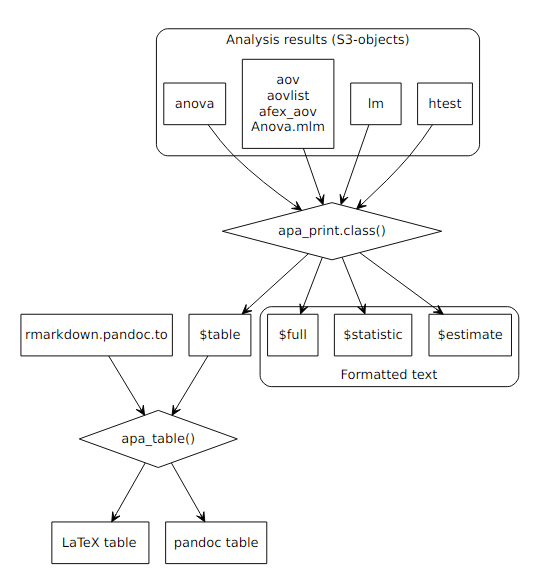
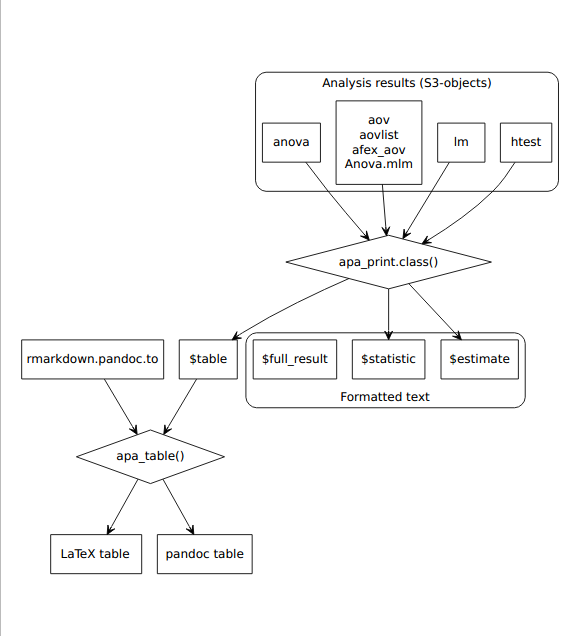
Updates list of apa_print methods and workflow diagram.

Changed region(s): [[0.0312, 0.0309, 0.9688, 0.6792], [0.0625, 0.6484, 0.5, 0.988], [0.4062, 0.3705, 0.4688, 0.4014]]

diff --git a/docs/published-manuscripts.html b/docs/published-manuscripts.html
@@ -25,7 +25,7 @@
 <meta name="author" content="Frederik Aust &amp; Marius Barth">
 
 
-<meta name="date" content="2018-08-06">
+<meta name="date" content="2018-08-10">
 
   <meta name="viewport" content="width=device-width, initial-scale=1">
   <meta name="apple-mobile-web-app-capable" content="yes">
@@ -213,16 +213,9 @@ code > span.in { color: #60a0b0; font-weight: bold; font-style: italic; } /* Inf
 <p>If you have published a paper that was written with <code>papaja</code>, you can add the reference to the <a href="https://www.zotero.org/groups/2202906/papaja">public Zotero group</a> yourself or send it to me.</p>
 <hr />
 <p>Although <code>papaja</code> is not yet on CRAN and is still undergoing a lot of changes, there are peer-reviewed publications that use it. If you have published a paper that was written with <code>papaja</code>, you can add the reference to the <a href="https://www.zotero.org/groups/2202906/papaja">public Zotero group</a> yourself or send it to me.</p>
-<p>Stahl, C., Barth, M., &amp; Haider, H. (2015). Distorted estimates of implicit and explicit learning in applications of the process-dissociation procedure to the SRT task. <em>Consciousness and Cognition</em>, <em>37</em>, 27–43. <a href="https://doi.org/10.1016/j.concog.2015.08.003" class="uri">https://doi.org/10.1016/j.concog.2015.08.003</a></p>
 <p>Aust, F., &amp; Edwards, J. D. (2016). Incremental validity of Useful Field of View subtests for the prediction of instrumental activities of daily living. <em>Journal of Clinical and Experimental Neuropsychology</em>, <em>38</em>(5), 497–515. <a href="https://doi.org/10.1080/13803395.2015.1125453" class="uri">https://doi.org/10.1080/13803395.2015.1125453</a></p>
-<p>Stahl, C., &amp; Heycke, T. (2016). Evaluative Conditioning with Simultaneous and Sequential Pairings Under Incidental and Intentional Learning Conditions. <em>Social Cognition</em>, <em>34</em>(5), 382–412. <a href="https://doi.org/10.1521/soco.2016.34.5.382" class="uri">https://doi.org/10.1521/soco.2016.34.5.382</a></p>
-<p>Stahl, C., Haaf, J., &amp; Corneille, O. (2016). Subliminal Evaluative Conditioning? Above-Chance CS Identification May Be Necessary and Insufficient for Attitude Learning. <em>Journal of Experimental Psychology: General</em>, <em>145</em>, 1107–1131. <a href="https://doi.org/10.1037/xge0000191" class="uri">https://doi.org/10.1037/xge0000191</a></p>
-<p>Stahl, C., Henze, L., &amp; Aust, F. (2016). False memory for perceptually similar but conceptually distinct line drawings. <em>PsyArXiv</em>. <a href="https://doi.org/10.17605/osf.io/zr7m8" class="uri">https://doi.org/10.17605/osf.io/zr7m8</a> (R Markdown and data files: <a href="https://osf.io/jxm7z/" class="uri">https://osf.io/jxm7z/</a>)</p>
-<p>Haaf, J. M., &amp; Rouder, J. N. (2017). Developing constraint in bayesian mixed models. <em>Psychological Methods</em>, <em>22</em>(4), 779–798. <a href="https://doi.org/10.1037/met0000156" class="uri">https://doi.org/10.1037/met0000156</a> (R Markdown and data files: <a href="https://github.com/perceptionandcognitionlab/ctx-indiff" class="uri">https://github.com/perceptionandcognitionlab/ctx-indiff</a>)</p>
-<p>Heycke, T., Aust, F., &amp; Stahl, C. (2017). Subliminal influence on preferences? A test of evaluative conditioning for brief visual conditioned stimuli using auditory unconditioned stimuli. <em>Royal Society Open Science</em>, <em>4</em>(9), 160935. <a href="https://doi.org/10.1098/rsos.160935" class="uri">https://doi.org/10.1098/rsos.160935</a></p>
-<p>McHugh, C., McGann, M., Igou, E. R., &amp; Kinsella, E. L. (2017). Searching for Moral Dumbfounding: Identifying Measurable Indicators of Moral Dumbfounding. <em>Collabra: Psychology</em>, <em>3</em>(1). <a href="https://doi.org/10.1525/collabra.79" class="uri">https://doi.org/10.1525/collabra.79</a> (R Markdown and data files: <a href="https://osf.io/wm6vc/" class="uri">https://osf.io/wm6vc/</a>)</p>
-<p>Papenberg, M., Willing, S., &amp; Musch, J. (2017). Sequentially presented response options prevent the use of testwiseness cues in multiple-choice testing. <em>Psychological Test and Assessment Modeling</em>, <em>59</em>(2), 245–266. Retrieved from <a href="http://www.psychologie-aktuell.com/fileadmin/download/ptam/2-2017_20170627/06_Papenberg_.pdf" class="uri">http://www.psychologie-aktuell.com/fileadmin/download/ptam/2-2017_20170627/06_Papenberg_.pdf</a></p>
-<p>Sauer, S. (2017). Observation oriented modeling revised from a statistical point of view. <em>Behavior Research Methods</em>. <a href="https://doi.org/10.3758/s13428-017-0949-8" class="uri">https://doi.org/10.3758/s13428-017-0949-8</a> (R Markdown and data files: <a href="https://osf.io/6vhja/" class="uri">https://osf.io/6vhja/</a>)</p>
+<p>Aust, F., Haaf, J. M., &amp; Stahl, C. (2018). A memory-based judgment account of expectancy-liking dissociations in evaluative conditioning. <em>Journal of Experimental Psychology: Learning, Memory, and Cognition</em>. <a href="https://doi.org/10.1037/xlm0000600" class="uri">https://doi.org/10.1037/xlm0000600</a> (R Markdown and data files: <a href="https://osf.io/vnmby/" class="uri">https://osf.io/vnmby/</a>)</p>
+<p>Barth, M., Stahl, C., &amp; Haider, H. (2018). Assumptions of the process-dissociation procedure are violated in implicit sequence learning. <em>Journal of Experimental Psychology: Learning, Memory, and Cognition</em>. <a href="https://doi.org/10.1037/xlm0000614" class="uri">https://doi.org/10.1037/xlm0000614</a> (R Markdown and data files: <a href="https://github.com/methexp/pdl2" class="uri">https://github.com/methexp/pdl2</a>)</p>
 <p>Beaton, D., Sunderland, K. M., Levine, B., Mandzia, J., Masellis, M., Swartz, R. H., … Strother, S. C. (2018). Generalization of the minimum covariance determinant algorithm for categorical and mixed data types. <em>bioRxiv</em>. <a href="https://doi.org/10.1101/333005" class="uri">https://doi.org/10.1101/333005</a></p>
 <p>Bergmann, C., Tsuji, S., Piccinini, P. E., Lewis, M. L., Braginsky, M., Frank, M. C., &amp; Cristia, A. (2018). Promoting Replicability in Developmental Research Through Meta-analyses: Insights From Language Acquisition Research. <em>Child Development</em>. <a href="https://doi.org/10.1111/cdev.13079" class="uri">https://doi.org/10.1111/cdev.13079</a> (R Markdown and data files: <a href="https://osf.io/uhv3d/" class="uri">https://osf.io/uhv3d/</a>)</p>
 <p>Buchanan, E. M., &amp; Scofield, J. E. (2018). Methods to detect low quality data and its implication for psychological research. <em>Behavior Research Methods</em>. <a href="https://doi.org/10.3758/s13428-018-1035-6" class="uri">https://doi.org/10.3758/s13428-018-1035-6</a> (R Markdown and data files: <a href="https://osf.io/x6t8a/" class="uri">https://osf.io/x6t8a/</a>)</p>
@@ -235,18 +228,30 @@ code > span.in { color: #60a0b0; font-weight: bold; font-style: italic; } /* Inf
 <p>Buchanan, E., Valentine, K., &amp; Maxwell, N. (2018b). The LAB: Linguistic Annotated Bibliography. <em>PsyArXiv</em>. <a href="https://doi.org/10.17605/osf.io/h3bwx" class="uri">https://doi.org/10.17605/osf.io/h3bwx</a> (R Markdown and data files: <a href="https://osf.io/9bcws/" class="uri">https://osf.io/9bcws/</a>)</p>
 <p>Craddock, M., Klepousniotou, E., El-Deredy, W., Poliakoff, E., &amp; Lloyd, D. M. (2018). Transcranial alternating current stimulation at 10 Hz modulates response bias in the Somatic Signal Detection Task. <em>bioRxiv</em>. <a href="https://doi.org/10.1101/330134" class="uri">https://doi.org/10.1101/330134</a></p>
 <p>Derringer, J. (2018). A simple correction for non-independent tests. <em>PsyArXiv</em>. <a href="https://doi.org/10/gdrbxc" class="uri">https://doi.org/10/gdrbxc</a> (R Markdown and data files: <a href="https://osf.io/re5w2/" class="uri">https://osf.io/re5w2/</a>)</p>
+<p>Faulkenberry, T. J., Cruise, A., &amp; Shaki, S. (2018). Task instructions modulate unit–decade binding in two-digit number representation. <em>Psychological Research</em>. <a href="https://doi.org/10.1007/s00426-018-1057-9" class="uri">https://doi.org/10.1007/s00426-018-1057-9</a> (R Markdown and data files: <a href="https://github.com/tomfaulkenberry/twodigittaskmanip" class="uri">https://github.com/tomfaulkenberry/twodigittaskmanip</a>)</p>
+<p>Haaf, J. M., &amp; Rouder, J. N. (2017). Developing constraint in bayesian mixed models. <em>Psychological Methods</em>, <em>22</em>(4), 779–798. <a href="https://doi.org/10.1037/met0000156" class="uri">https://doi.org/10.1037/met0000156</a> (R Markdown and data files: <a href="https://github.com/perceptionandcognitionlab/ctx-indiff" class="uri">https://github.com/perceptionandcognitionlab/ctx-indiff</a>)</p>
 <p>Hardwicke, T., &amp; Ioannidis. (2018). Mapping the Universe of Registered Reports. <em>PsyArXiv</em>. <a href="https://doi.org/10.31222/osf.io/fzpcy" class="uri">https://doi.org/10.31222/osf.io/fzpcy</a> (R Markdown and data files: <a href="https://osf.io/7dpwb/" class="uri">https://osf.io/7dpwb/</a>)</p>
 <p>Hardwicke, T., Mathur, M., MacDonald, K., Nilsonne, G., Banks, G., Kidwell, M., … Frank, M. (2018). Data availability, reusability, and analytic reproducibility: Evaluating the impact of a mandatory open data policy at the journal Cognition. <em>PsyArXiv</em>. <a href="https://doi.org/10.17605/osf.io/39cfb" class="uri">https://doi.org/10.17605/osf.io/39cfb</a> (R Markdown and data files: <a href="https://osf.io/wn8fd/" class="uri">https://osf.io/wn8fd/</a>)</p>
 <p>Harms, C., &amp; Lakens, D. (2018). Making ’Null Effects’ Informative: Statistical Techniques and Inferential Frameworks. <em>PsyArXiv</em>. <a href="https://doi.org/10.17605/osf.io/48zca" class="uri">https://doi.org/10.17605/osf.io/48zca</a> (R Markdown and data files: <a href="https://osf.io/wptju/" class="uri">https://osf.io/wptju/</a>)</p>
 <p>Heino, M. T. J., Vuorre, M., &amp; Hankonen, N. (2018). Bayesian evaluation of behavior change interventions: A brief introduction and a practical example. <em>Health Psychology and Behavioral Medicine</em>, <em>6</em>(1), 49–78. <a href="https://doi.org/10.1080/21642850.2018.1428102" class="uri">https://doi.org/10.1080/21642850.2018.1428102</a> (R Markdown and data files: <a href="https://zenodo.org/record/1209814\#.wvy3h4jovgm" class="uri">https://zenodo.org/record/1209814\#.wvy3h4jovgm</a>)</p>
 <p>Heycke, T., &amp; Stahl, C. (2018). No Evaluative Conditioning Effects with Briefly Presented Stimuli. <em>PsyArXiv</em>. <a href="https://doi.org/10.17605/osf.io/ujq4g" class="uri">https://doi.org/10.17605/osf.io/ujq4g</a> (R Markdown and data files: <a href="https://osf.io/3dn7e/" class="uri">https://osf.io/3dn7e/</a>)</p>
+<p>Heycke, T., Aust, F., &amp; Stahl, C. (2017). Subliminal influence on preferences? A test of evaluative conditioning for brief visual conditioned stimuli using auditory unconditioned stimuli. <em>Royal Society Open Science</em>, <em>4</em>(9), 160935. <a href="https://doi.org/10.1098/rsos.160935" class="uri">https://doi.org/10.1098/rsos.160935</a></p>
 <p>Heycke, T., Gehrmann, S., Haaf, J. M., &amp; Stahl, C. (2018). Of two minds or one? A registered replication of Rydell et al. (2006). <em>Cognition and Emotion</em>, <em>0</em>(0), 1–20. <a href="https://doi.org/10.1080/02699931.2018.1429389" class="uri">https://doi.org/10.1080/02699931.2018.1429389</a> (R Markdown and data files: <a href="https://osf.io/c57sr/" class="uri">https://osf.io/c57sr/</a>)</p>
 <p>Heyman, T., &amp; Heyman, G. (2018). Can prediction-based distributional semantic models predict typicality? <em>PsyArXiv</em>. <a href="https://doi.org/10.17605/osf.io/59xtd" class="uri">https://doi.org/10.17605/osf.io/59xtd</a> (R Markdown and data files: <a href="https://osf.io/nkfjy/" class="uri">https://osf.io/nkfjy/</a>)</p>
 <p>Jordan, K., Buchanan, E., &amp; Padfield, W. (2018). Focus on the Target: The Role of Attentional Focus in Decisions about War. <em>PsyArXiv</em>. <a href="https://doi.org/10.17605/osf.io/9fgu8" class="uri">https://doi.org/10.17605/osf.io/9fgu8</a> (R Markdown and data files: <a href="https://osf.io/r8qp2/" class="uri">https://osf.io/r8qp2/</a>)</p>
-<p>Maxwell, N., &amp; Buchanan, E. (2018). Investigating the Interaction between Associative, Semantic, and Thematic Database Norms for Memory Judgments and Retrieval. <em>PsyArXiv</em>. <a href="https://doi.org/10.17605/osf.io/fcesn" class="uri">https://doi.org/10.17605/osf.io/fcesn</a> (R Markdown and data files: <a href="https://osf.io/y8h7v/" class="uri">https://osf.io/y8h7v/</a>)</p>
+<p>Lakens, D., Scheel, A. M., &amp; Isager, P. M. (2018). Equivalence Testing for Psychological Research: A Tutorial. <em>Advances in Methods and Practices in Psychological Science</em>, <em>1</em>(2), 259–269. <a href="https://doi.org/10.1177/2515245918770963" class="uri">https://doi.org/10.1177/2515245918770963</a> (R Markdown and data files: <a href="https://osf.io/qamc6/" class="uri">https://osf.io/qamc6/</a>)</p>
+<p>Maxwell, N., &amp; Buchanan, E. (2018a). Investigating the Interaction between Associative, Semantic, and Thematic Database Norms for Memory Judgments and Retrieval. <em>PsyArXiv</em>. <a href="https://doi.org/10.17605/osf.io/fcesn" class="uri">https://doi.org/10.17605/osf.io/fcesn</a> (R Markdown and data files: <a href="https://osf.io/y8h7v/" class="uri">https://osf.io/y8h7v/</a>)</p>
+<p>Maxwell, N., &amp; Buchanan, E. (2018b). Modeling Memory: Exploring the Relationship Between Word Overlap and Single Word Norms when Predicting Relatedness Judgments and Retrieval. <em>PsyArXiv</em>. <a href="https://doi.org/10.17605/osf.io/qekad" class="uri">https://doi.org/10.17605/osf.io/qekad</a> (R Markdown and data files: <a href="https://osf.io/j7qtc/" class="uri">https://osf.io/j7qtc/</a>)</p>
+<p>McHugh, C., McGann, M., Igou, E. R., &amp; Kinsella, E. L. (2017). Searching for Moral Dumbfounding: Identifying Measurable Indicators of Moral Dumbfounding. <em>Collabra: Psychology</em>, <em>3</em>(1). <a href="https://doi.org/10.1525/collabra.79" class="uri">https://doi.org/10.1525/collabra.79</a> (R Markdown and data files: <a href="https://osf.io/wm6vc/" class="uri">https://osf.io/wm6vc/</a>)</p>
+<p>Papenberg, M., Willing, S., &amp; Musch, J. (2017). Sequentially presented response options prevent the use of testwiseness cues in multiple-choice testing. <em>Psychological Test and Assessment Modeling</em>, <em>59</em>(2), 245–266. Retrieved from <a href="http://www.psychologie-aktuell.com/fileadmin/download/ptam/2-2017_20170627/06_Papenberg_.pdf" class="uri">http://www.psychologie-aktuell.com/fileadmin/download/ptam/2-2017_20170627/06_Papenberg_.pdf</a></p>
 <p>Pavlacic, J., Buchanan, E., Maxwell, N., Hopke, T., &amp; Schulenberg, S. (2018). A Meta-Analysis of Expressive Writing on Positive Psychology Variables and Traumatic Stress. <em>PsyArXiv</em>. <a href="https://doi.org/10.17605/osf.io/u98cw" class="uri">https://doi.org/10.17605/osf.io/u98cw</a> (R Markdown and data files: <a href="https://osf.io/4mjqt/" class="uri">https://osf.io/4mjqt/</a>)</p>
 <p>Pollet, T. V., &amp; Saxton, T. (2018). How diverse are the samples used in the journals “Evolution &amp; Human Behavior” and “Evolutionary Psychology”? <em>PsyArXiv</em>. <a href="https://doi.org/10.17605/osf.io/7h24p" class="uri">https://doi.org/10.17605/osf.io/7h24p</a></p>
 <p>Rouder, J. N., Haaf, J. M., &amp; Aust, F. (2018). From theories to models to predictions: A Bayesian model comparison approach. <em>Communication Monographs</em>, <em>85</em>(1), 41–56. <a href="https://doi.org/10.1080/03637751.2017.1394581" class="uri">https://doi.org/10.1080/03637751.2017.1394581</a></p>
+<p>Sauer, S. (2017). Observation oriented modeling revised from a statistical point of view. <em>Behavior Research Methods</em>. <a href="https://doi.org/10.3758/s13428-017-0949-8" class="uri">https://doi.org/10.3758/s13428-017-0949-8</a> (R Markdown and data files: <a href="https://osf.io/6vhja/" class="uri">https://osf.io/6vhja/</a>)</p>
+<p>Stahl, C., &amp; Heycke, T. (2016). Evaluative Conditioning with Simultaneous and Sequential Pairings Under Incidental and Intentional Learning Conditions. <em>Social Cognition</em>, <em>34</em>(5), 382–412. <a href="https://doi.org/10.1521/soco.2016.34.5.382" class="uri">https://doi.org/10.1521/soco.2016.34.5.382</a></p>
+<p>Stahl, C., Barth, M., &amp; Haider, H. (2015). Distorted estimates of implicit and explicit learning in applications of the process-dissociation procedure to the SRT task. <em>Consciousness and Cognition</em>, <em>37</em>, 27–43. <a href="https://doi.org/10.1016/j.concog.2015.08.003" class="uri">https://doi.org/10.1016/j.concog.2015.08.003</a></p>
+<p>Stahl, C., Haaf, J., &amp; Corneille, O. (2016). Subliminal Evaluative Conditioning? Above-Chance CS Identification May Be Necessary and Insufficient for Attitude Learning. <em>Journal of Experimental Psychology: General</em>, <em>145</em>, 1107–1131. <a href="https://doi.org/10.1037/xge0000191" class="uri">https://doi.org/10.1037/xge0000191</a></p>
+<p>Stahl, C., Henze, L., &amp; Aust, F. (2016). False memory for perceptually similar but conceptually distinct line drawings. <em>PsyArXiv</em>. <a href="https://doi.org/10.17605/osf.io/zr7m8" class="uri">https://doi.org/10.17605/osf.io/zr7m8</a> (R Markdown and data files: <a href="https://osf.io/jxm7z/" class="uri">https://osf.io/jxm7z/</a>)</p>
 <p>Stevens, J. R., &amp; Soh, L.-K. (2018). Predicting similarity judgments in intertemporal choice with machine learning. <em>Psychonomic Bulletin &amp; Review</em>, <em>25</em>(2), 627–635. <a href="https://doi.org/10/gdfghk" class="uri">https://doi.org/10/gdfghk</a></p>
 <p>Urry, H. L., Sifre, E., Song, J., Steinberg, H., Bornstein, M., Kim, J., … Andrews, M. (2018). Effect of Disgust on Judgments of Moral Wrongness: A Replication of Eskine, Kacinik, and Prinz (2011). <em>At Tufts University - Spring, 2017</em>. Retrieved from <a href="https://osf.io/fu384/" class="uri">https://osf.io/fu384/</a> (R Markdown and data files: <a href="https://osf.io/ddmkm" class="uri">https://osf.io/ddmkm</a>)</p>
 <p>Valentine, K., Buchanan, E., Scofield, J., &amp; Beauchamp, M. (2018). Beyond p-values: Utilizing Multiple Estimates to Evaluate Evidence. <em>PsyArXiv</em>. <a href="https://doi.org/10.17605/osf.io/9hp7y" class="uri">https://doi.org/10.17605/osf.io/9hp7y</a> (R Markdown and data files: <a href="https://osf.io/u9hf4/" class="uri">https://osf.io/u9hf4/</a>)</p>

diff --git a/docs/writing.html b/docs/writing.html
@@ -25,7 +25,7 @@
 <meta name="author" content="Frederik Aust &amp; Marius Barth">
 
 
-<meta name="date" content="2018-08-06">
+<meta name="date" content="2018-08-10">
 
   <meta name="viewport" content="width=device-width, initial-scale=1">
   <meta name="apple-mobile-web-app-capable" content="yes">
@@ -269,7 +269,7 @@ Figure 3.1: Demonstration of the RStudio addin from the <code>citr</code> packag
 my_citations &lt;-<span class="st"> </span><span class="kw">cite_r</span>(<span class="dt">file =</span> <span class="st">&quot;r-references.bib&quot;</span>)</code></pre></div>
 <p><code>r_refs()</code> creates a BibTeX file containing citations for R and packages that are in use at the time the function is executed. <code>cite_r()</code> takes these citations and turns them into readily reportable text. <code>my_citations</code> now contains the following text that you can use in your document:</p>
 <blockquote>
-<p>R <span class="citation">(Version 3.4.4; R Core Team, <a href="#ref-R-base">2016</a>)</span> and the R-packages <em>afex</em> <span class="citation">(Version 0.20.2; Singmann et al., <a href="#ref-R-afex">2016</a>)</span>, <em>bindrcpp</em> <span class="citation">(Version 0.2.2; Müller, <a href="#ref-R-bindrcpp">2017</a>)</span>, <em>car</em> <span class="citation">(Version 2.1.6; Fox &amp; Weisberg, <a href="#ref-R-car">2011</a>)</span>, <em>citr</em> <span class="citation">(Version 0.2.0.9055; Aust, <a href="#ref-R-citr">2016</a>)</span>, <em>DiagrammeR</em> <span class="citation">(Version 0.9.2; Sveidqvist et al., <a href="#ref-R-DiagrammeR">2016</a>)</span>, <em>dplyr</em> <span class="citation">(Version 0.7.6; Wickham &amp; Francois, <a href="#ref-R-dplyr">2016</a>)</span>, <em>estimability</em> <span class="citation">(Version 1.3; Lenth, <a href="#ref-R-estimability">2015</a>)</span>, <em>ez</em> <span class="citation">(Version 4.4.0; Lawrence, <a href="#ref-R-ez">2016</a>)</span>, <em>knitr</em> <span class="citation">(Version 1.20; Xie, <a href="#ref-R-knitr">2015</a>)</span>, <em>lme4</em> <span class="citation">(Version 1.1.15; Bates et al., <a href="#ref-R-lme4">2015</a>)</span>, <em>lsmeans</em> <span class="citation">(Version 2.27.61; Lenth, <a href="#ref-R-lsmeans">2016</a>)</span>, <em>Matrix</em> <span class="citation">(Version 1.2.14; Bates &amp; Maechler, <a href="#ref-R-Matrix">2016</a>)</span>, <em>papaja</em> <span class="citation">(Version 0.1.0.9793; Aust &amp; Barth, <a href="#ref-R-papaja">2016</a>)</span>, <em>reshape2</em> <span class="citation">(Version 1.4.3; Wickham, <a href="#ref-R-reshape2">2007</a>)</span>, <em>rmarkdown</em> <span class="citation">(Version 1.10; Allaire et al., <a href="#ref-R-rmarkdown">2017</a>)</span>, <em>shiny</em> <span class="citation">(Version 1.1.0; Chang et al., <a href="#ref-R-shiny">2016</a>)</span>, and <em>wordcountaddin</em> <span class="citation">(Version 0.2.0; Marwick, n.d.)</span></p>
+<p>R <span class="citation">(Version 3.4.4; R Core Team, <a href="#ref-R-base">2016</a>)</span> and the R-packages <em>afex</em> <span class="citation">(Version 0.20.2; Singmann et al., <a href="#ref-R-afex">2016</a>)</span>, <em>bindrcpp</em> <span class="citation">(Version 0.2.2; Müller, <a href="#ref-R-bindrcpp">2017</a>)</span>, <em>car</em> <span class="citation">(Version 2.1.6; Fox &amp; Weisberg, <a href="#ref-R-car">2011</a>)</span>, <em>citr</em> <span class="citation">(Version 0.2.0.9055; Aust, <a href="#ref-R-citr">2016</a>)</span>, <em>DiagrammeR</em> <span class="citation">(Version 0.9.2; Sveidqvist et al., <a href="#ref-R-DiagrammeR">2016</a>)</span>, <em>dplyr</em> <span class="citation">(Version 0.7.6; Wickham &amp; Francois, <a href="#ref-R-dplyr">2016</a>)</span>, <em>estimability</em> <span class="citation">(Version 1.3; Lenth, <a href="#ref-R-estimability">2015</a>)</span>, <em>ez</em> <span class="citation">(Version 4.4.0; Lawrence, <a href="#ref-R-ez">2016</a>)</span>, <em>knitr</em> <span class="citation">(Version 1.20; Xie, <a href="#ref-R-knitr">2015</a>)</span>, <em>lme4</em> <span class="citation">(Version 1.1.15; Bates et al., <a href="#ref-R-lme4">2015</a>)</span>, <em>lsmeans</em> <span class="citation">(Version 2.27.61; Lenth, <a href="#ref-R-lsmeans">2016</a>)</span>, <em>Matrix</em> <span class="citation">(Version 1.2.14; Bates &amp; Maechler, <a href="#ref-R-Matrix">2016</a>)</span>, <em>papaja</em> <span class="citation">(Version 0.1.0.9838; Aust &amp; Barth, <a href="#ref-R-papaja">2016</a>)</span>, <em>reshape2</em> <span class="citation">(Version 1.4.3; Wickham, <a href="#ref-R-reshape2">2007</a>)</span>, <em>rmarkdown</em> <span class="citation">(Version 1.10; Allaire et al., <a href="#ref-R-rmarkdown">2017</a>)</span>, <em>shiny</em> <span class="citation">(Version 1.1.0; Chang et al., <a href="#ref-R-shiny">2016</a>)</span>, and <em>wordcountaddin</em> <span class="citation">(Version 0.2.0; Marwick, n.d.)</span></p>
 </blockquote>
 <p>If you prefer to cite only a subset of these packages, package names can be specified either as a blacklist, so they won’t be cited (<code>withhold = TRUE</code>), or as a whitelist, so only these packages will be cited (<code>withhold = FALSE</code>).</p>
 <div class="sourceCode"><pre class="sourceCode r"><code class="sourceCode r">my_citations &lt;-<span class="st"> </span><span class="kw">cite_r</span>(
@@ -278,7 +278,7 @@ my_citations &lt;-<span class="st"> </span><span class="kw">cite_r</span>(<span 
   , <span class="dt">withhold =</span> <span class="ot">FALSE</span>
 )</code></pre></div>
 <blockquote>
-<p>R <span class="citation">(Version 3.4.4; R Core Team, <a href="#ref-R-base">2016</a>)</span> and the R-packages <em>afex</em> <span class="citation">(Version 0.20.2; Singmann et al., <a href="#ref-R-afex">2016</a>)</span>, <em>lsmeans</em> <span class="citation">(Version 2.27.61; Lenth, <a href="#ref-R-lsmeans">2016</a>)</span>, and <em>papaja</em> <span class="citation">(Version 0.1.0.9793; Aust &amp; Barth, <a href="#ref-R-papaja">2016</a>)</span></p>
+<p>R <span class="citation">(Version 3.4.4; R Core Team, <a href="#ref-R-base">2016</a>)</span> and the R-packages <em>afex</em> <span class="citation">(Version 0.20.2; Singmann et al., <a href="#ref-R-afex">2016</a>)</span>, <em>lsmeans</em> <span class="citation">(Version 2.27.61; Lenth, <a href="#ref-R-lsmeans">2016</a>)</span>, and <em>papaja</em> <span class="citation">(Version 0.1.0.9838; Aust &amp; Barth, <a href="#ref-R-papaja">2016</a>)</span></p>
 </blockquote>
 <p>Another option is to cite R in text but move the list of R packges into a footnote.</p>
 <div class="sourceCode"><pre class="sourceCode r"><code class="sourceCode r">my_citations &lt;-<span class="st"> </span><span class="kw">cite_r</span>(<span class="dt">file =</span> <span class="st">&quot;r-references.bib&quot;</span>, <span class="dt">footnote =</span> <span class="ot">TRUE</span>)</code></pre></div>
@@ -368,7 +368,7 @@ d&#39; = \frac{\mu_{old} - \mu_{new}}{\sqrt{0.5(\sigma^2_{old} + \sigma^2_{new})
 <div class="footnotes">
 <hr />
 <ol start="2">
-<li id="fn2"><p>We, furthermore, used the R-packages <em>afex</em> <span class="citation">(Version 0.20.2; Singmann et al., <a href="#ref-R-afex">2016</a>)</span>, <em>bindrcpp</em> <span class="citation">(Version 0.2.2; Müller, <a href="#ref-R-bindrcpp">2017</a>)</span>, <em>car</em> <span class="citation">(Version 2.1.6; Fox &amp; Weisberg, <a href="#ref-R-car">2011</a>)</span>, <em>citr</em> <span class="citation">(Version 0.2.0.9055; Aust, <a href="#ref-R-citr">2016</a>)</span>, <em>DiagrammeR</em> <span class="citation">(Version 0.9.2; Sveidqvist et al., <a href="#ref-R-DiagrammeR">2016</a>)</span>, <em>dplyr</em> <span class="citation">(Version 0.7.6; Wickham &amp; Francois, <a href="#ref-R-dplyr">2016</a>)</span>, <em>estimability</em> <span class="citation">(Version 1.3; Lenth, <a href="#ref-R-estimability">2015</a>)</span>, <em>ez</em> <span class="citation">(Version 4.4.0; Lawrence, <a href="#ref-R-ez">2016</a>)</span>, <em>knitr</em> <span class="citation">(Version 1.20; Xie, <a href="#ref-R-knitr">2015</a>)</span>, <em>lme4</em> <span class="citation">(Version 1.1.15; Bates et al., <a href="#ref-R-lme4">2015</a>)</span>, <em>lsmeans</em> <span class="citation">(Version 2.27.61; Lenth, <a href="#ref-R-lsmeans">2016</a>)</span>, <em>Matrix</em> <span class="citation">(Version 1.2.14; Bates &amp; Maechler, <a href="#ref-R-Matrix">2016</a>)</span>, <em>papaja</em> <span class="citation">(Version 0.1.0.9793; Aust &amp; Barth, <a href="#ref-R-papaja">2016</a>)</span>, <em>reshape2</em> <span class="citation">(Version 1.4.3; Wickham, <a href="#ref-R-reshape2">2007</a>)</span>, <em>rmarkdown</em> <span class="citation">(Version 1.10; Allaire et al., <a href="#ref-R-rmarkdown">2017</a>)</span>, <em>shiny</em> <span class="citation">(Version 1.1.0; Chang et al., <a href="#ref-R-shiny">2016</a>)</span>, and <em>wordcountaddin</em> <span class="citation">(Version 0.2.0; Marwick, n.d.)</span>.<a href="writing.html#fnref2">↩</a></p></li>
+<li id="fn2"><p>We, furthermore, used the R-packages <em>afex</em> <span class="citation">(Version 0.20.2; Singmann et al., <a href="#ref-R-afex">2016</a>)</span>, <em>bindrcpp</em> <span class="citation">(Version 0.2.2; Müller, <a href="#ref-R-bindrcpp">2017</a>)</span>, <em>car</em> <span class="citation">(Version 2.1.6; Fox &amp; Weisberg, <a href="#ref-R-car">2011</a>)</span>, <em>citr</em> <span class="citation">(Version 0.2.0.9055; Aust, <a href="#ref-R-citr">2016</a>)</span>, <em>DiagrammeR</em> <span class="citation">(Version 0.9.2; Sveidqvist et al., <a href="#ref-R-DiagrammeR">2016</a>)</span>, <em>dplyr</em> <span class="citation">(Version 0.7.6; Wickham &amp; Francois, <a href="#ref-R-dplyr">2016</a>)</span>, <em>estimability</em> <span class="citation">(Version 1.3; Lenth, <a href="#ref-R-estimability">2015</a>)</span>, <em>ez</em> <span class="citation">(Version 4.4.0; Lawrence, <a href="#ref-R-ez">2016</a>)</span>, <em>knitr</em> <span class="citation">(Version 1.20; Xie, <a href="#ref-R-knitr">2015</a>)</span>, <em>lme4</em> <span class="citation">(Version 1.1.15; Bates et al., <a href="#ref-R-lme4">2015</a>)</span>, <em>lsmeans</em> <span class="citation">(Version 2.27.61; Lenth, <a href="#ref-R-lsmeans">2016</a>)</span>, <em>Matrix</em> <span class="citation">(Version 1.2.14; Bates &amp; Maechler, <a href="#ref-R-Matrix">2016</a>)</span>, <em>papaja</em> <span class="citation">(Version 0.1.0.9838; Aust &amp; Barth, <a href="#ref-R-papaja">2016</a>)</span>, <em>reshape2</em> <span class="citation">(Version 1.4.3; Wickham, <a href="#ref-R-reshape2">2007</a>)</span>, <em>rmarkdown</em> <span class="citation">(Version 1.10; Allaire et al., <a href="#ref-R-rmarkdown">2017</a>)</span>, <em>shiny</em> <span class="citation">(Version 1.1.0; Chang et al., <a href="#ref-R-shiny">2016</a>)</span>, and <em>wordcountaddin</em> <span class="citation">(Version 0.2.0; Marwick, n.d.)</span>.<a href="writing.html#fnref2">↩</a></p></li>
 </ol>
 </div>
 <h1>Comments and Questions</h1>

diff --git a/docs/index.html b/docs/index.html
@@ -25,7 +25,7 @@
 <meta name="author" content="Frederik Aust &amp; Marius Barth">
 
 
-<meta name="date" content="2018-08-06">
+<meta name="date" content="2018-08-10">
 
   <meta name="viewport" content="width=device-width, initial-scale=1">
   <meta name="apple-mobile-web-app-capable" content="yes">
@@ -211,14 +211,14 @@ code > span.in { color: #60a0b0; font-weight: bold; font-style: italic; } /* Inf
 <div id="header">
 <h1 class="title">papaja: Reproducible APA manuscripts with R Markdown</h1>
 <h4 class="author"><em>Frederik Aust &amp; Marius Barth</em></h4>
-<h4 class="date"><em>2018-08-06</em></h4>
+<h4 class="date"><em>2018-08-10</em></h4>
 </div>
 <div id="preface" class="section level1 unnumbered">
 <h1>Preface</h1>
 <p>This book will be a manual for the R package <a href="https://github.com/crsh/papaja">papaja</a>. It is currently in the process of being written; I’m publishing new sections of the book as I’m writing them. If you have suggestions for improvements or additional topics you would like to see covered, please let me know by opening an <a href="https://github.com/crsh/papaja_man/issues">issue on GitHub</a> or creating a pull request.</p>
 <p><code>papaja</code> has not yet been submitted to CRAN because it is under active development. Currently, there are still a couple of loose ends we would like to tie up before we release the package to a larger audience. If you would like to contribute to speed up the process, have a look at the chapters <a href="limitations.html#limitations">Limitations</a> and <a href="future-directions.html#future-directions">Future directions</a>.</p>
 <p>If you are interested in reproducible research with R more generally, I recommend the books by <span class="citation">Xie (<a href="#ref-R-knitr">2015</a>)</span> and <span class="citation">Gandrud (<a href="#ref-gandrud_reproducible_2013">2013</a>)</span>. Furthermore, <span class="citation">Stodden, Leisch, &amp; Peng (<a href="#ref-stodden_implementing_2014">2014</a>)</span> give an overview of tools, practices, and platforms to implement reproducible research.</p>
-<p>This manual is fully reproducible and was written in R <span class="citation">(Version 3.4.4; R Core Team, <a href="#ref-R-base">2016</a>)</span> and the R-packages <em>afex</em> <span class="citation">(Version 0.20.2; Singmann, Bolker, Westfall, &amp; Aust, <a href="#ref-R-afex">2016</a>)</span>, <em>bindrcpp</em> <span class="citation">(Version 0.2.2; Müller, <a href="#ref-R-bindrcpp">2017</a>)</span>, <em>car</em> <span class="citation">(Version 2.1.6; Fox &amp; Weisberg, <a href="#ref-R-car">2011</a>)</span>, <em>citr</em> <span class="citation">(Version 0.2.0.9055; Aust, <a href="#ref-R-citr">2016</a>)</span>, <em>DiagrammeR</em> <span class="citation">(Version 0.9.2; Sveidqvist et al., <a href="#ref-R-DiagrammeR">2016</a>)</span>, <em>dplyr</em> <span class="citation">(Version 0.7.6; Wickham &amp; Francois, <a href="#ref-R-dplyr">2016</a>)</span>, <em>ez</em> <span class="citation">(Version 4.4.0; Lawrence, <a href="#ref-R-ez">2016</a>)</span>, <em>knitr</em> <span class="citation">(Version 1.20; Xie, <a href="#ref-R-knitr">2015</a>)</span>, <em>lme4</em> <span class="citation">(Version 1.1.15; Bates, Mächler, Bolker, &amp; Walker, <a href="#ref-R-lme4">2015</a>)</span>, <em>lsmeans</em> <span class="citation">(Version 2.27.61; Lenth, <a href="#ref-R-lsmeans">2016</a>)</span>, <em>papaja</em> <span class="citation">(Version 0.1.0.9793; Aust &amp; Barth, <a href="#ref-R-papaja">2016</a>)</span>, <em>rmarkdown</em> <span class="citation">(Version 1.10; Allaire et al., <a href="#ref-R-rmarkdown">2017</a>)</span>, <em>shiny</em> <span class="citation">(Version 1.1.0; Chang, Cheng, Allaire, Xie, &amp; McPherson, <a href="#ref-R-shiny">2016</a>)</span>, and <em>wordcountaddin</em> <span class="citation">(Version 0.2.0; Marwick, n.d.)</span>. Icons are provide royalty</p>
+<p>This manual is fully reproducible and was written in R <span class="citation">(Version 3.4.4; R Core Team, <a href="#ref-R-base">2016</a>)</span> and the R-packages <em>afex</em> <span class="citation">(Version 0.20.2; Singmann, Bolker, Westfall, &amp; Aust, <a href="#ref-R-afex">2016</a>)</span>, <em>bindrcpp</em> <span class="citation">(Version 0.2.2; Müller, <a href="#ref-R-bindrcpp">2017</a>)</span>, <em>car</em> <span class="citation">(Version 2.1.6; Fox &amp; Weisberg, <a href="#ref-R-car">2011</a>)</span>, <em>citr</em> <span class="citation">(Version 0.2.0.9055; Aust, <a href="#ref-R-citr">2016</a>)</span>, <em>DiagrammeR</em> <span class="citation">(Version 0.9.2; Sveidqvist et al., <a href="#ref-R-DiagrammeR">2016</a>)</span>, <em>dplyr</em> <span class="citation">(Version 0.7.6; Wickham &amp; Francois, <a href="#ref-R-dplyr">2016</a>)</span>, <em>ez</em> <span class="citation">(Version 4.4.0; Lawrence, <a href="#ref-R-ez">2016</a>)</span>, <em>knitr</em> <span class="citation">(Version 1.20; Xie, <a href="#ref-R-knitr">2015</a>)</span>, <em>lme4</em> <span class="citation">(Version 1.1.15; Bates, Mächler, Bolker, &amp; Walker, <a href="#ref-R-lme4">2015</a>)</span>, <em>lsmeans</em> <span class="citation">(Version 2.27.61; Lenth, <a href="#ref-R-lsmeans">2016</a>)</span>, <em>papaja</em> <span class="citation">(Version 0.1.0.9838; Aust &amp; Barth, <a href="#ref-R-papaja">2016</a>)</span>, <em>rmarkdown</em> <span class="citation">(Version 1.10; Allaire et al., <a href="#ref-R-rmarkdown">2017</a>)</span>, <em>shiny</em> <span class="citation">(Version 1.1.0; Chang, Cheng, Allaire, Xie, &amp; McPherson, <a href="#ref-R-shiny">2016</a>)</span>, and <em>wordcountaddin</em> <span class="citation">(Version 0.2.0; Marwick, n.d.)</span>. Icons are provide royalty</p>
 <hr />
 <pre><code>## Session info -------------------------------------------------------------</code></pre>
 <pre><code>##  setting  value                       
@@ -228,7 +228,7 @@ code > span.in { color: #60a0b0; font-weight: bold; font-style: italic; } /* Inf
 ##  language en_US:                      
 ##  collate  en_US.UTF-8                 
 ##  tz       Europe/Berlin               
-##  date     2018-08-06</code></pre>
+##  date     2018-08-10</code></pre>
 <pre><code>## Packages -----------------------------------------------------------------</code></pre>
 <pre><code>##  package      * version    date       source                          
 ##  assertthat     0.2.0      2017-04-11 CRAN (R 3.4.2)                  
@@ -278,13 +278,13 @@ code > span.in { color: #60a0b0; font-weight: bold; font-style: italic; } /* Inf
 ##  nlme           3.1-137    2018-04-07 CRAN (R 3.4.4)                  
 ##  nloptr         1.0.4      2017-08-22 CRAN (R 3.4.2)                  
 ##  nnet           7.3-12     2016-02-02 CRAN (R 3.4.0)                  
-##  papaja       * 0.1.0.9793 2018-08-06 local                           
+##  papaja       * 0.1.0.9838 2018-08-10 Github (crsh/papaja@b28a697)    
 ##  parallel       3.4.4      2018-03-16 local                           
 ##  pbkrtest       0.4-7      2017-03-15 CRAN (R 3.4.2)                  
 ##  pillar         1.2.1      2018-02-27 cran (@1.2.1)                   
 ##  pkgconfig      2.0.1      2017-03-21 CRAN (R 3.4.2)                  
 ##  plyr           1.8.4      2016-06-08 CRAN (R 3.4.2)                  
-##  purrr          0.2.5      2018-05-29 cran (@0.2.5)                   
+##  purrr          0.2.5      2018-05-29 CRAN (R 3.4.4)                  
 ##  quantreg       5.34       2017-10-25 cran (@5.34)                    
 ##  R6             2.2.2      2017-06-17 CRAN (R 3.4.2)                  
 ##  RColorBrewer   1.1-2      2014-12-07 CRAN (R 3.4.2)                  

diff --git a/docs/reporting.html b/docs/reporting.html
@@ -25,7 +25,7 @@
 <meta name="author" content="Frederik Aust &amp; Marius Barth">
 
 
-<meta name="date" content="2018-08-06">
+<meta name="date" content="2018-08-10">
 
   <meta name="viewport" content="width=device-width, initial-scale=1">
   <meta name="apple-mobile-web-app-capable" content="yes">
@@ -405,56 +405,111 @@ descriptives[, <span class="op">-</span><span class="dv">1</span>] &lt;-<span cl
 </div>
 <div id="results-from-statistical-tests" class="section level2">
 <h2><span class="header-section-number">4.4</span> Results from statistical tests</h2>
-<p>Output from statistical models and tests needs to be properly formatted before it can be included in text. For this purpose, we created the function <code>apa_print()</code>. Simply drop the results from a statistical test (e.g. a <span class="math inline">\(t\)</span> test or an ANOVA) into <code>apa_print()</code>, and you will get an output object (a <code>list</code>) that contains all you need to report the analysis according to APA guidelines. <code>apa_print()</code> currently supports output objects from a variety of statistical models/tests, including <span class="math inline">\(t\)</span> tests, ANOVA, linear regression. For a full list of supported output objects, see Table <a href="reporting.html#tab:supported-s3-methods">4.1</a>.</p>
+<p>Output from statistical models and tests needs to be properly formatted before it can be included in text. For this purpose, we created the function <code>apa_print()</code>. Simply drop the results from a statistical test (e.g. a <span class="math inline">\(t\)</span> test or an ANOVA) into <code>apa_print()</code>, and you will get an output object (a <code>list</code>) that contains all you need to report the analysis according to APA guidelines. <code>apa_print()</code> currently supports output objects from a variety of statistical models/tests, including <span class="math inline">\(t\)</span> tests, ANOVA, linear regression. For a full list of supported output objects, see Table <a href="#tab:supported-s3-methods"><strong>??</strong></a>.</p>
 <table>
-<caption><span id="tab:supported-s3-methods">Table 4.1: </span>Analysis object types currently supported by <code>apa_print()</code>.</caption>
 <thead>
-<tr class="header">
-<th align="left">A-B</th>
-<th align="left">B-H</th>
-<th align="left">L-S</th>
-<th align="left">S-Z</th>
+<tr>
+<th style="text-align:left;">
+A-B
+</th>
+<th style="text-align:left;">
+B-H
+</th>
+<th style="text-align:left;">
+L-S
+</th>
+<th style="text-align:left;">
+S-Z
+</th>
 </tr>
 </thead>
 <tbody>
-<tr class="odd">
-<td align="left">afex_aov</td>
-<td align="left">BFBayesFactorList</td>
-<td align="left">list</td>
-<td align="left">summary_emm</td>
+<tr>
+<td style="text-align:left;">
+afex_aov
+</td>
+<td style="text-align:left;">
+BFBayesFactorList<sup>*</sup>
+</td>
+<td style="text-align:left;">
+list
+</td>
+<td style="text-align:left;">
+summary_emm<sup>*</sup>
+</td>
 </tr>
-<tr class="even">
-<td align="left">anova</td>
-<td align="left">BFBayesFactorTop</td>
-<td align="left">lm</td>
-<td align="left">summary.glht</td>
+<tr>
+<td style="text-align:left;">
+anova
+</td>
+<td style="text-align:left;">
+BFBayesFactorTop<sup>*</sup>
+</td>
+<td style="text-align:left;">
+lm
+</td>
+<td style="text-align:left;">
+summary.glht<sup>*</sup>
+</td>
 </tr>
-<tr class="odd">
-<td align="left">Anova.mlm</td>
-<td align="left">emmGrid</td>
-<td align="left">lsmobj</td>
-<td align="left">summary.glm</td>
+<tr>
+<td style="text-align:left;">
+Anova.mlm
+</td>
+<td style="text-align:left;">
+emmGrid<sup>*</sup>
+</td>
+<td style="text-align:left;">
+lsmobj<sup>*</sup>
+</td>
+<td style="text-align:left;">
+summary.glm
+</td>
 </tr>
-<tr class="even">
-<td align="left">aov</td>
-<td align="left">glht</td>
-<td align="left">summary.Anova.mlm</td>
-<td align="left">summary.lm</td>
+<tr>
+<td style="text-align:left;">
+aov
+</td>
+<td style="text-align:left;">
+glht<sup>*</sup>
+</td>
+<td style="text-align:left;">
+summary.Anova.mlm
+</td>
+<td style="text-align:left;">
+summary.lm
+</td>
 </tr>
-<tr class="odd">
-<td align="left">aovlist</td>
-<td align="left">glm</td>
-<td align="left">summary.aov</td>
-<td align="left">summary.ref.grid</td>
+<tr>
+<td style="text-align:left;">
+aovlist
+</td>
+<td style="text-align:left;">
+glm
+</td>
+<td style="text-align:left;">
+summary.aov
+</td>
+<td style="text-align:left;">
+summary.ref.grid<sup>*</sup>
+</td>
 </tr>
-<tr class="even">
-<td align="left">BFBayesFactor</td>
-<td align="left">htest</td>
-<td align="left">summary.aovlist</td>
-<td align="left"></td>
+<tr>
+<td style="text-align:left;">
+BFBayesFactor<sup>*</sup>
+</td>
+<td style="text-align:left;">
+htest
+</td>
+<td style="text-align:left;">
+summary.aovlist
+</td>
+<td style="text-align:left;">
+</td>
 </tr>
 </tbody>
 </table>
+<p><span style="font-size:50%;"><sup>*</sup> Not fully tested, don’t trust blindly!</span></p>
 <div class="figure" style="text-align: center"><span id="fig:formatting-process-diagram"></span>
 <img src="result_formatting_process.png" alt="Process diagram illustrating the use of `apa_print()` methods and `apa_table()` to format results from statistical analyses according to APA guidelines. The formatted text and tables can be reported in a manuscript."  />
 <p class="caption">
@@ -501,7 +556,7 @@ apa_lm &lt;-<span class="st"> </span><span class="kw">apa_print</span>(lm_out)</
   , <span class="dt">escape =</span> <span class="ot">FALSE</span>
 )</code></pre></div>
 <caption>
-<span id="tab:lm-table">Table 4.2: </span>
+<span id="tab:lm-table">Table 4.1: </span>
 </caption>
 <caption>
 <em>A full regression table.</em>
@@ -569,7 +624,7 @@ apa_anova &lt;-<span class="st"> </span><span class="kw">apa_print</span>(cosmet
   , <span class="dt">note =</span> <span class="st">&quot;Note that the column names contain beautiful mathematical copy: This is because the table has variable labels.&quot;</span>
 )</code></pre></div>
 <caption>
-<span id="tab:anova-table">Table 4.3: </span>
+<span id="tab:anova-table">Table 4.2: </span>
 </caption>
 <caption>
 <em>A really beautiful ANOVA table.</em>

diff --git a/docs/collaborative-writing.html b/docs/collaborative-writing.html
@@ -25,7 +25,7 @@
 <meta name="author" content="Frederik Aust &amp; Marius Barth">
 
 
-<meta name="date" content="2018-08-06">
+<meta name="date" content="2018-08-10">
 
   <meta name="viewport" content="width=device-width, initial-scale=1">
   <meta name="apple-mobile-web-app-capable" content="yes">

diff --git a/docs/future-directions.html b/docs/future-directions.html
@@ -25,7 +25,7 @@
 <meta name="author" content="Frederik Aust &amp; Marius Barth">
 
 
-<meta name="date" content="2018-08-06">
+<meta name="date" content="2018-08-10">
 
   <meta name="viewport" content="width=device-width, initial-scale=1">
   <meta name="apple-mobile-web-app-capable" content="yes">

diff --git a/docs/introduction.html b/docs/introduction.html
@@ -25,7 +25,7 @@
 <meta name="author" content="Frederik Aust &amp; Marius Barth">
 
 
-<meta name="date" content="2018-08-06">
+<meta name="date" content="2018-08-10">
 
   <meta name="viewport" content="width=device-width, initial-scale=1">
   <meta name="apple-mobile-web-app-capable" content="yes">

diff --git a/docs/limitations.html b/docs/limitations.html
@@ -25,7 +25,7 @@
 <meta name="author" content="Frederik Aust &amp; Marius Barth">
 
 
-<meta name="date" content="2018-08-06">
+<meta name="date" content="2018-08-10">
 
   <meta name="viewport" content="width=device-width, initial-scale=1">
   <meta name="apple-mobile-web-app-capable" content="yes">

diff --git a/docs/r-markdown-components.html b/docs/r-markdown-components.html
@@ -25,7 +25,7 @@
 <meta name="author" content="Frederik Aust &amp; Marius Barth">
 
 
-<meta name="date" content="2018-08-06">
+<meta name="date" content="2018-08-10">
 
   <meta name="viewport" content="width=device-width, initial-scale=1">
   <meta name="apple-mobile-web-app-capable" content="yes">

diff --git a/docs/references.html b/docs/references.html
@@ -25,7 +25,7 @@
 <meta name="author" content="Frederik Aust &amp; Marius Barth">
 
 
-<meta name="date" content="2018-08-06">
+<meta name="date" content="2018-08-10">
 
   <meta name="viewport" content="width=device-width, initial-scale=1">
   <meta name="apple-mobile-web-app-capable" content="yes">

diff --git a/docs/tips-and-tricks.html b/docs/tips-and-tricks.html
@@ -25,7 +25,7 @@
 <meta name="author" content="Frederik Aust &amp; Marius Barth">
 
 
-<meta name="date" content="2018-08-06">
+<meta name="date" content="2018-08-10">
 
   <meta name="viewport" content="width=device-width, initial-scale=1">
   <meta name="apple-mobile-web-app-capable" content="yes">
